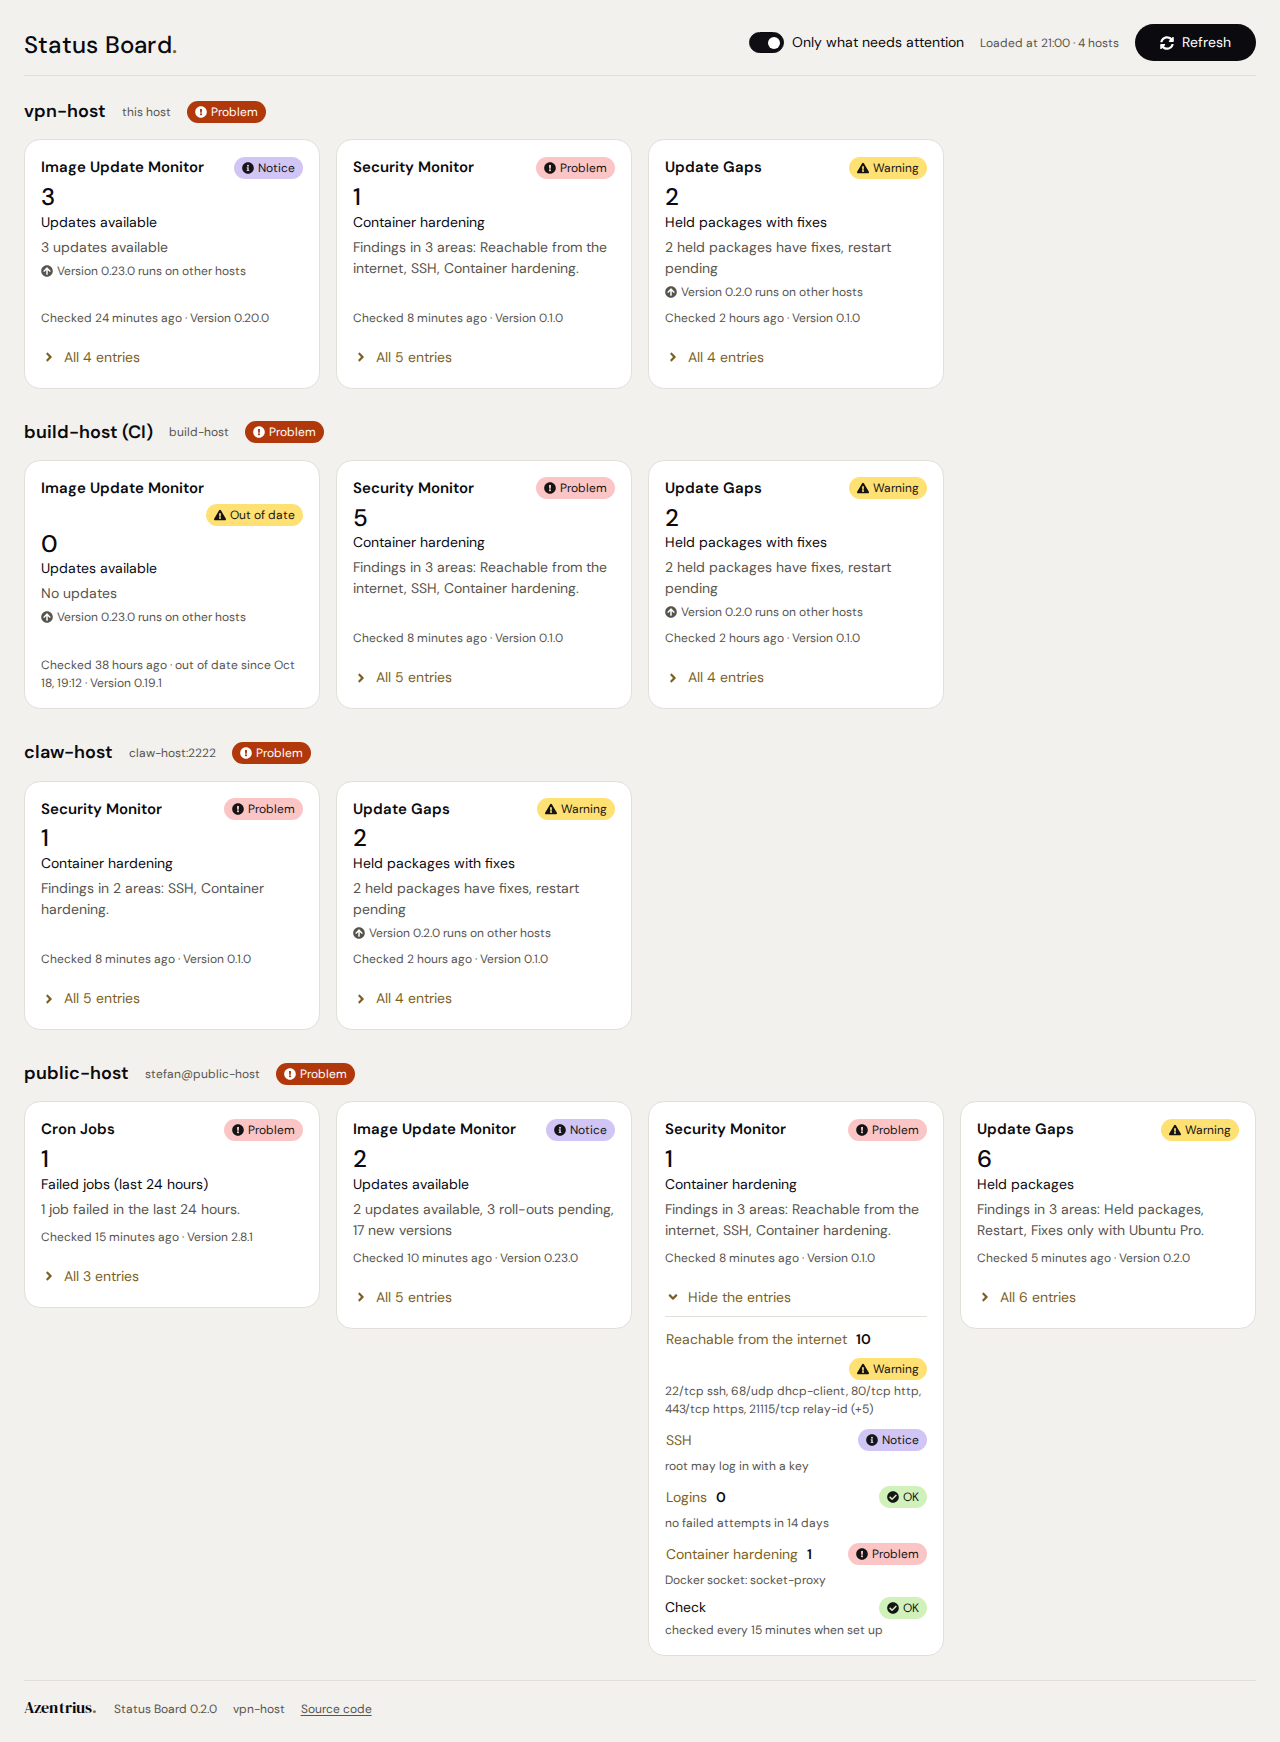
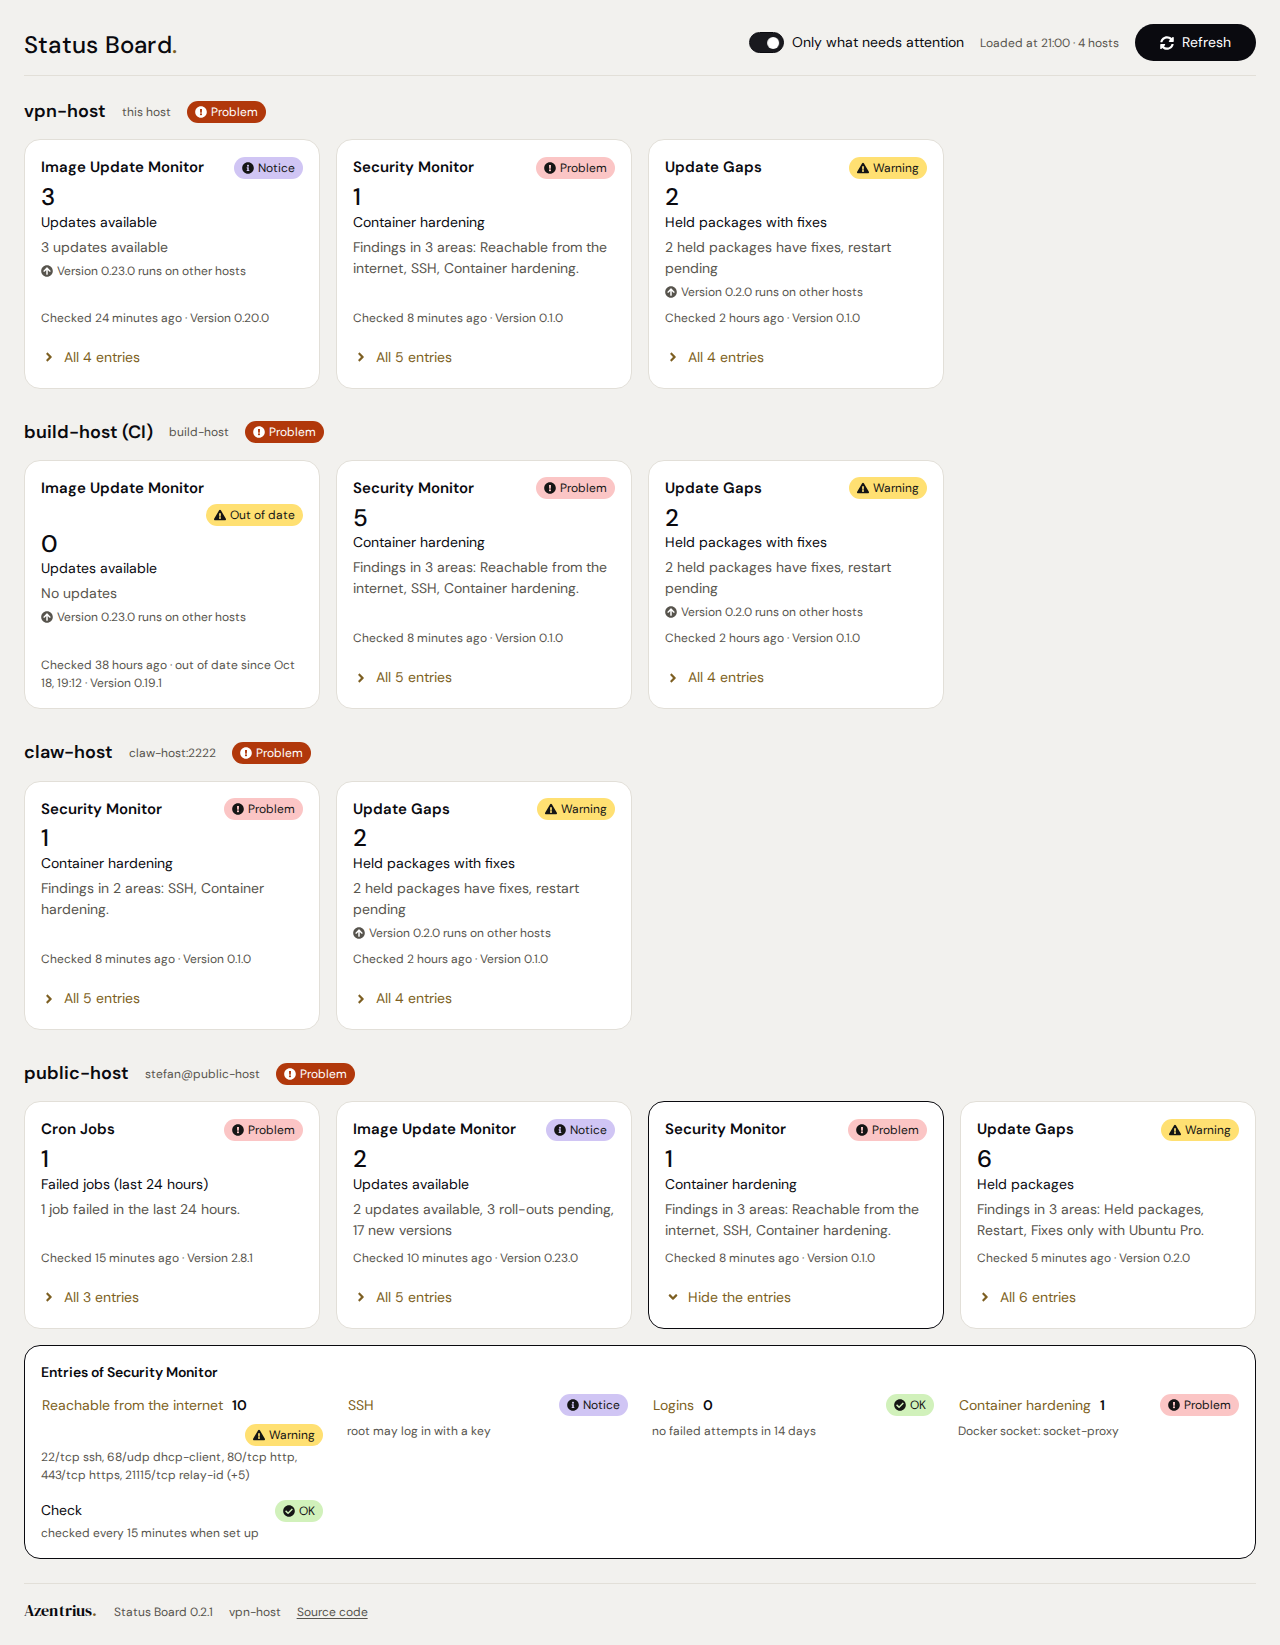
Open the entries in a panel below the row, so the row stays put (#10)
In 0.2.0 a tile's entries opened inside its card. The grid then aligned
that row to the top, so the other cards of the row shrank to their own
height when one opened and grew back when it closed: their figures, ages
and toggles jumped (seen on the bastion). This keeps the row still.
Version 0.2.1.

## The entries in a panel below the row

- "All 5 entries" stays in the card; the entries open in a panel
(`.sb-panel`) that is the next item in the grid after its card and spans
the whole row (`grid-column: 1 / -1`).
- `grid-auto-flow: row dense` lets the cards after it in the source
still fill the card's row, so the panel goes below the row and the
columns stay as they are. With three columns, a panel of the first card
goes between the first and the second row; on a phone it follows its
card.
- The cards keep their size and content; only the rows below move down.
The open card and its panel share the border colour (`--primary`).
- The entries stand side by side in the panel (`auto-fill, minmax(15rem,
1fr)`), four across at full width.
- The `:has(.sb-items)` rule that aligned the row to the top is gone.

The panel keeps what 0.2.0 had: it exists only while open,
`aria-controls` from the toggle, named by its heading
(`aria-labelledby`), the entries' own jumps through `jumpTo()`, open
tiles stay open across loads.

## Tests

`ui_test.py` measures the cards of the row (tile, age, toggle) in the
document before and after opening one tile, opening a second and closing
[…]

diff --git a/src/app.js b/src/app.js
@@ -25,7 +25,7 @@
 (function () {
     "use strict";
 
-    const VERSION = "0.2.0";
+    const VERSION = "0.2.1";
     const SB = window.StatusBoard;
     const ICONS = window.AzIcons;
     const REFRESH_MS = 5 * 60 * 1000;
@@ -428,27 +428,31 @@
             since ? h("span", { class: "sb-item__detail" }, since) : null);
     }
 
-    /* Every entry of an answer, folded away below the tile (only when there is more than the key
-       item). The list exists only while it is open: a hidden button would still count. */
-    function renderItems(host, tile, key, go, id) {
-        if (tile.kind !== "status" || tile.eval.items.length < 2) return null;
-        const open = state.open.has(key);
-        const listId = "items-" + id;
-        const toggle = h("button", {
+    /* The toggle below a tile that has more than its key item; it opens or closes the panel. */
+    function renderToggle(tile, key, open, panelId) {
+        return h("div", { class: "sb-tile__more" }, h("button", {
             class: "az-btn az-btn--link az-btn--sm sb-tile__toggle", type: "button", "data-focus": key + "#items",
-            "aria-expanded": open ? "true" : "false", "aria-controls": open ? listId : null,
+            "aria-expanded": open ? "true" : "false", "aria-controls": open ? panelId : null,
             onclick: () => {
                 if (state.open.has(key)) state.open.delete(key);
                 else state.open.add(key);
                 render();
             },
-        }, icon(open ? "angle-down" : "angle-right"), open ? T.itemsHide : T.itemsShow(tile.eval.items.length));
-        return h("div", { class: "sb-tile__more" }, toggle,
-            open ? h("ul", { class: "sb-items", id: listId, "aria-label": T.itemsOf(tile.label) },
-                tile.eval.items.map(item => renderItem(host, tile, key, item, go))) : null);
+        }, icon(open ? "angle-down" : "angle-right"), open ? T.itemsHide : T.itemsShow(tile.eval.items.length)));
     }
 
-    /* A card per tile: the tile itself (a button when a click opens something), then its entries. */
+    /* Every entry of an answer, in a panel across the whole row below the tile's row of cards: the
+       cards keep their size, so nothing in the row moves when it opens or closes. It exists only
+       while it is open (a hidden button would still count). */
+    function renderPanel(host, tile, key, go, panelId) {
+        const titleId = panelId + "-title";
+        return h("section", { class: "az-card sb-panel", id: panelId, "data-items-for": key, "aria-labelledby": titleId },
+            h("h3", { class: "sb-panel__title", id: titleId }, T.itemsOf(tile.label)),
+            h("ul", { class: "sb-items" }, tile.eval.items.map(item => renderItem(host, tile, key, item, go))));
+    }
+
+    /* A card per tile: the tile itself (a button when a click opens something), then the toggle of
+       its entries; while they are open, the panel follows the card in the grid. */
     function renderTile(host, tile, id) {
         const key = host.key + "/" + (tile.pkg || tile.kind);
         if (tile.kind === "loading") return h("div", { class: "az-card sb-cell" }, h("div", { class: "sb-tile", "data-key": key }, text(T.loading)));
@@ -459,7 +463,12 @@
             label(tile.state, T.words[tile.word])), tileParts(tile, go)];
         const main = go ? h("button", { class: "sb-tile", type: "button", "data-key": key, onclick: () => jumpTo(host, tile) }, parts)
             : h("div", { class: "sb-tile", "data-key": key }, parts);
-        return h("div", { class: "az-card sb-cell" }, main, renderItems(host, tile, key, go, id));
+        const entries = tile.kind === "status" && tile.eval.items.length >= 2;
+        const open = entries && state.open.has(key);
+        const panelId = "items-" + id;
+        const card = h("div", { class: "az-card sb-cell" + (open ? " sb-cell--open" : "") }, main,
+            entries ? renderToggle(tile, key, open, panelId) : null);
+        return open ? [card, renderPanel(host, tile, key, go, panelId)] : card;
     }
 
     /* The row's label: the most severe state of its add-ons, or why the host could not be read. */

diff --git a/src/app.css b/src/app.css
@@ -23,13 +23,14 @@
   overflow-wrap: anywhere;
 }
 
-.sb-tiles { display: grid; grid-template-columns: repeat(auto-fill, minmax(15rem, 1fr)); gap: var(--space-md); }
+/* "dense": an open panel spans the whole row and goes below the row of its card; the cards after
+   it in the source still fill that row first, so the columns stay as they are. */
+.sb-tiles { display: grid; grid-template-columns: repeat(auto-fill, minmax(15rem, 1fr)); grid-auto-flow: row dense; gap: var(--space-md); }
 
-/* ---------- a card: the tile, then the entries it folds out ---------- */
+/* ---------- a card: the tile, then the toggle of its entries ---------- */
 .sb-cell { display: flex; flex-direction: column; overflow: hidden; }
-/* Cards of a row are as high as the highest; while one is folded out, the others keep their own
-   height instead of growing empty. */
-.sb-tiles:has(.sb-items) { align-items: start; }
+/* The card whose entries are open, and its panel, share the border colour. */
+.sb-cell--open, .sb-panel { border-color: var(--primary); }
 
 /* ---------- a tile: one add-on on one host ---------- */
 .sb-tile {
@@ -67,10 +68,12 @@ button.sb-tile:focus-visible { outline: 2px solid var(--focus); outline-offset: 
 /* The same add-on runs in a newer version on another host. */
 .sb-tile__hint { display: flex; align-items: center; gap: var(--space-xs); color: var(--text-subtle); font-size: 12px; overflow-wrap: anywhere; }
 
-/* ---------- the entries of an answer, folded out below its tile ---------- */
+/* ---------- the entries of an answer, in a panel across the row ---------- */
 .sb-tile__more { display: flex; flex-direction: column; gap: var(--space-xs); padding: 0 var(--space-md) var(--space-md); }
 .sb-tile__toggle { align-self: flex-start; padding-inline: 0; }
-.sb-items { display: flex; flex-direction: column; gap: var(--space-sm); margin: 0; padding: var(--space-sm) 0 0; list-style: none; border-block-start: 1px solid var(--line); }
+.sb-panel { grid-column: 1 / -1; display: flex; flex-direction: column; gap: var(--space-sm); padding: var(--space-md); min-inline-size: 0; }
+.sb-panel__title { margin: 0; font-size: 14px; font-weight: 600; overflow-wrap: anywhere; }
+.sb-items { display: grid; grid-template-columns: repeat(auto-fill, minmax(15rem, 1fr)); gap: var(--space-md) var(--space-lg); margin: 0; padding: 0; list-style: none; }
 .sb-item { display: flex; flex-direction: column; gap: 2px; min-inline-size: 0; }
 .sb-item__head { display: flex; flex-wrap: wrap; align-items: center; gap: var(--space-xs) var(--space-sm); }
 .sb-item__head > .az-label { margin-inline-start: auto; }

diff --git a/src/index.html b/src/index.html
@@ -9,18 +9,18 @@
      the theme script before the stylesheets, so the page never flashes in the wrong brightness.
      Every file of the add-on carries ?v=VERSION, so browsers fetch the new files after an update
      (tools/check-version.sh). Everything is local: Cockpit's strict CSP stays as it is. -->
-<script src="azentrius-theme.js?v=0.2.0"></script>
-<link rel="stylesheet" href="azentrius.css?v=0.2.0">
-<link rel="stylesheet" href="app.css?v=0.2.0">
+<script src="azentrius-theme.js?v=0.2.1"></script>
+<link rel="stylesheet" href="azentrius.css?v=0.2.1">
+<link rel="stylesheet" href="app.css?v=0.2.1">
 <!-- Cockpit: its API, its translation for the session language (sets cockpit.language), and the
      manifests of this host's packages (cockpit.manifests). -->
 <script src="../base1/cockpit.js"></script>
 <script src="../base1/po.js"></script>
 <script src="../manifests.js"></script>
-<script src="icons.js?v=0.2.0"></script>
-<script src="i18n/en.js?v=0.2.0"></script>
-<script src="i18n/de.js?v=0.2.0"></script>
-<script src="lib/status.js?v=0.2.0"></script>
+<script src="icons.js?v=0.2.1"></script>
+<script src="i18n/en.js?v=0.2.1"></script>
+<script src="i18n/de.js?v=0.2.1"></script>
+<script src="lib/status.js?v=0.2.1"></script>
 </head>
 <body>
 <div class="az-page" id="page">
@@ -47,6 +47,6 @@
   </footer>
 </div>
 
-<script src="app.js?v=0.2.0"></script>
+<script src="app.js?v=0.2.1"></script>
 </body>
 </html>

diff --git a/test/ui_test.py b/test/ui_test.py
@@ -503,24 +503,40 @@ with sync_playwright() as p:
     check(mock(page, "jumps")[-1] == ["/security#/containers", "public-host"],
           "a click opens the Security Monitor at its key item: " + json.dumps(mock(page, "jumps")))
 
-    # every entry of a tile, folded out below it
+    # every entry of a tile, in a panel across the row below the tile's row of cards
     def toggle(key):
         return page.locator(f'[data-key="{key}"] + .sb-tile__more .sb-tile__toggle')
 
     def entries(key):
-        return page.evaluate("""k => Array.from(document.querySelectorAll('[data-key="' + k + '"] + .sb-tile__more .sb-item')).map(li => [
+        return page.evaluate("""k => Array.from(document.querySelectorAll('[data-items-for="' + k + '"] .sb-item')).map(li => [
             li.dataset.item, li.querySelector('.az-label').innerText.trim(), (li.querySelector('.sb-item__link, .sb-item__title') || {}).innerText,
             !!li.querySelector('button.sb-item__link'), (li.querySelector('.sb-item__value') || {}).innerText || null])""", key)
+
+    def row_rects(host):
+        """Where the cards of a row and the parts inside them are in the document (a click scrolls
+        its target into view): none of it may move. (A toggle's width follows its text, "All 5
+        entries" or "Hide the entries".)"""
+        return page.evaluate("""h => Array.from(document.querySelectorAll('[data-host="' + h + '"] .sb-cell')).map(c =>
+            [c.querySelector('.sb-tile').dataset.key].concat(Array.from(c.querySelectorAll('.sb-tile, .sb-tile__meta, .sb-tile__toggle'))
+                .map(e => { const r = e.getBoundingClientRect();
+                    return [Math.round(r.x + window.scrollX), Math.round(r.y + window.scrollY),
+                            e.matches('.sb-tile__toggle') ? null : Math.round(r.width), Math.round(r.height)]; })))""", host)
 
     key = "public-host/security"
     check(toggle(key).inner_text().strip() == "All 5 entries" and toggle(key).get_attribute("aria-expanded") == "false" and entries(key) == [],
           "folded away at first, the toggle says how many: " + toggle(key).inner_text())
     check(page.evaluate("() => document.querySelectorAll('[data-key=\"claw-host/image-updates\"] + .sb-tile__more').length") == 0,
           "a tile without an answer has nothing to fold out")
+    before = row_rects("public-host")
     toggle(key).focus()
     page.keyboard.press("Enter")
     page.wait_for_timeout(50)
     got = entries(key)
+    check(row_rects("public-host") == before, "opening moves nothing in the row: no card, figure, age or toggle jumps")
+    panel = page.evaluate("""k => { const p = document.querySelector('[data-items-for="' + k + '"]'), row = p.parentElement.getBoundingClientRect();
+        const r = p.getBoundingClientRect(), cards = Array.from(p.parentElement.querySelectorAll('.sb-cell')).map(c => c.getBoundingClientRect());
+        return [Math.round(r.width) === Math.round(row.width), Math.round(r.top) > Math.max(...cards.map(c => Math.round(c.bottom)))]; }""", key)
+    check(panel == [True, True], "the panel spans the row, below all of its cards: " + repr(panel))
     check(got == [["exposure", "Warning", "Reachable from the internet", True, "10"], ["ssh", "Notice", "SSH", True, None],
                   ["logins", "OK", "Logins", True, "0"], ["containers", "Problem", "Container hardening", True, "1"],
                   ["scan", "OK", "Check", False, None]],
@@ -529,13 +545,25 @@ with sync_playwright() as p:
           and page.evaluate("document.activeElement.dataset.focus") == key + "#items",
           "the toggle with the keyboard; it keeps the focus")
     check(page.evaluate("""k => { const t = document.querySelector('[data-key="' + k + '"] + .sb-tile__more .sb-tile__toggle');
-        const l = document.getElementById(t.getAttribute('aria-controls')); return l && l.getAttribute('aria-label'); }""", key) == "Entries of Security Monitor",
-          "the toggle controls the list, which is named")
-    page.locator('[data-key="public-host/security"] + .sb-tile__more [data-item="ssh"] .sb-item__link').click()
+        const p = document.getElementById(t.getAttribute('aria-controls'));
+        return p && p.dataset.itemsFor === k && document.getElementById(p.getAttribute('aria-labelledby')).innerText; }""", key) == "Entries of Security Monitor",
+          "the toggle controls the panel, which is named by its heading")
+    page.locator('[data-items-for="public-host/security"] [data-item="ssh"] .sb-item__link').click()
     check(mock(page, "jumps")[-1] == ["/security#/ssh", "public-host"], "an entry opens its own place: " + json.dumps(mock(page, "jumps")))
     page.click("#refresh")
     wait_idle(page)
     check(len(entries(key)) == 5, "an open tile stays open when the board loads again")
+    # the first card of the row opened too: the cards after it still fill the row, the panels follow in order
+    toggle("public-host/cronjobs").click()
+    page.wait_for_timeout(50)
+    order = page.evaluate("""() => Array.from(document.querySelectorAll('[data-host="public-host"] .sb-tiles > *')).map(e =>
+        [e.matches('.sb-panel') ? 'panel:' + e.dataset.itemsFor : e.querySelector('.sb-tile').dataset.key, Math.round(e.getBoundingClientRect().top)])""")
+    tops = {k: t for k, t in order}
+    check(row_rects("public-host") == before and tops["panel:public-host/cronjobs"] < tops["panel:public-host/security"],
+          "two open tiles: the row stays, their panels below it in the order of the cards: " + repr(order))
+    toggle("public-host/cronjobs").click()
+    page.wait_for_timeout(50)
+    check(row_rects("public-host") == before, "closing moves nothing either")
 
     # only what needs attention: OK, Unknown, Not installed, No status and No access are left out
     page.click(".az-switch")

diff --git a/docs/INTERNALS.md b/docs/INTERNALS.md
@@ -131,15 +131,18 @@ add-ons send titles such as "New versions" whatever the value, so "1" over "New 
 right where "1 New versions" would not. Without the host switcher only this host's tiles open
 something (see "Every call the page makes").
 
-**Entries.** A tile of a valid answer with more than one item folds out all of them below it, in
-the add-on's order: title, value, the item's own label (its state at that time; out of date makes
-it at least a warning, labelled Out of date when the age alone made it one), detail, and since when
-it is out of date where that differs from the tile's own time. An item with a `link` is a button
-that opens the add-on at that place, with the same checks and the same rule for other hosts as a
-click on the tile. The list exists only while it is open (a hidden button would still be a control
-on a phone), and the tiles that are open stay open when the board loads again (`state.open`, by
-`data-key`; not kept across page loads). The cards of a row are as high as the highest; while one
-is open, the others keep their own height.
+**Entries.** A tile of a valid answer with more than one item opens all of them in a panel, in the
+add-on's order: title, value, the item's own label (its state at that time; out of date makes it at
+least a warning, labelled Out of date when the age alone made it one), detail, and since when it is
+out of date where that differs from the tile's own time. An item with a `link` is a button that
+opens the add-on at that place, with the same checks and the same rule for other hosts as a click
+on the tile. The panel spans the whole row of the grid and goes below the row of its card
+(`grid-auto-flow: row dense`; the cards after it in the source still fill that row first), so the
+cards keep their size and nothing in the row moves when it opens or closes; only the rows below
+move down. In version 0.2.0 the entries opened inside the card, and the other cards of the row
+jumped to a new height. The card and its panel share the border colour. The panel exists only while
+it is open (a hidden button would still be a control on a phone), and open tiles stay open when the
+board loads again (`state.open`, by `data-key`; not kept across page loads).
 
 **Only what needs attention** (`notable()` in `lib/status.js`): the switch leaves out tiles whose
 state is below Notice (OK, Unknown, Not installed, No status, No access), and keeps tiles that are

diff --git a/README.md b/README.md
@@ -28,9 +28,10 @@ and changes nothing on any host; a click on a tile opens the add-on on its host.
   in a version without the status contract ("No status") or with an answer the board cannot use
   ("Status unreadable", with the reason). Data older than the add-on allows (`stale_after`) makes
   the tile a warning, "out of date since …".
-- **Every entry of a tile:** "All 5 entries" folds out what the add-on reports, each entry with its
-  label, value and detail; an entry with a place in the add-on opens it on a click (the Security
-  Monitor's SSH, for example), not only the key figure's.
+- **Every entry of a tile:** "All 5 entries" opens what the add-on reports in a panel below the
+  row, each entry with its label, value and detail; an entry with a place in the add-on opens it on
+  a click (the Security Monitor's SSH, for example), not only the key figure's. The tiles of the row
+  stay as they are.
 - **Only what needs attention:** a switch in the header leaves out the tiles in OK, Unknown, Not
   installed, No status and No access. The browser keeps the choice.
 - **Versions:** each tile names the add-on's version and says so when another host runs a newer

diff --git a/CHANGELOG.md b/CHANGELOG.md
@@ -1,5 +1,14 @@
 # Changelog
 
+## 0.2.1 – 2026-10-22
+
+The tiles of a row stay put when a tile's entries open or close.
+
+- **Entries in a panel below the row:** "All 5 entries" opens a panel across the whole row, below
+  the row of its card, instead of inside the card. In 0.2.0 the other cards of the row shrank to
+  their own height when one opened and grew back when it closed, so their figures, ages and toggles
+  jumped. Now only the rows below move down. The card and its panel share the border colour.
+
 ## 0.2.0 – 2026-10-21
 
 A tile shows every entry of its add-on, the board can hide what needs no attention, and it says
